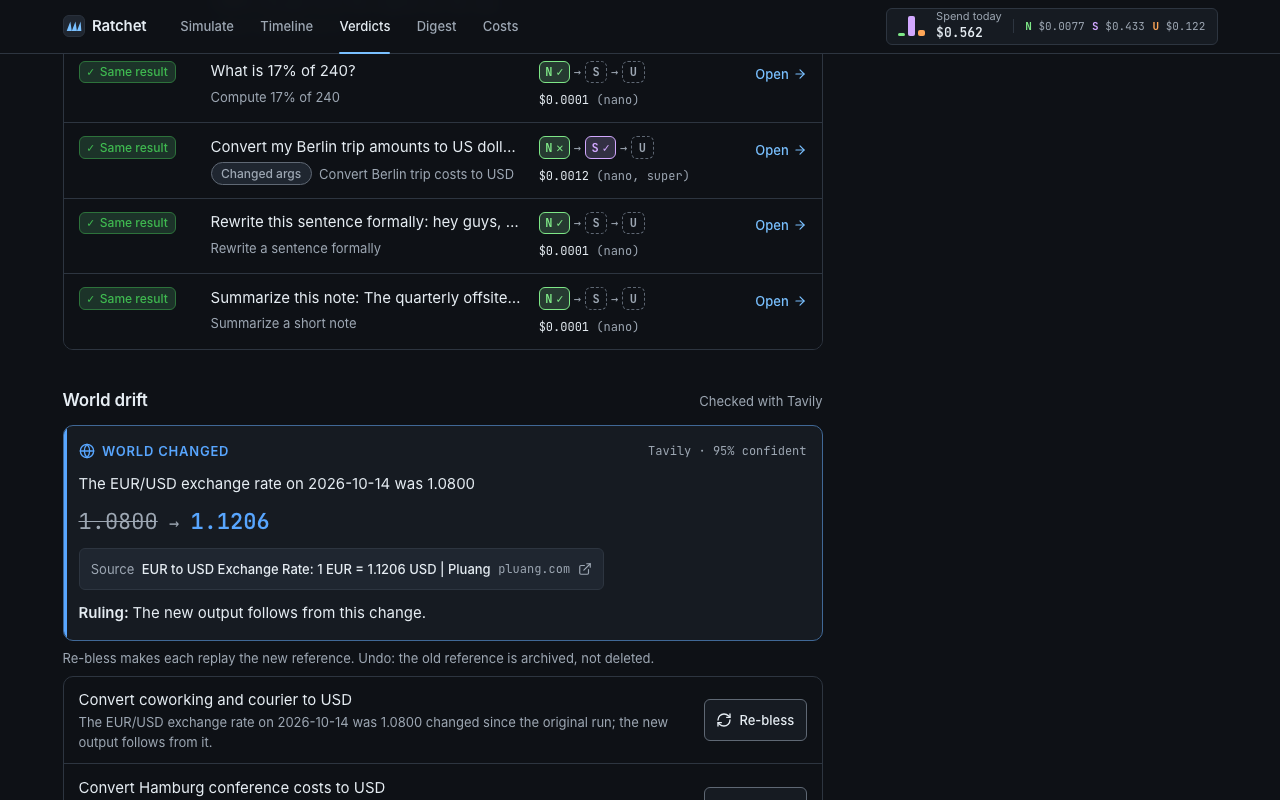
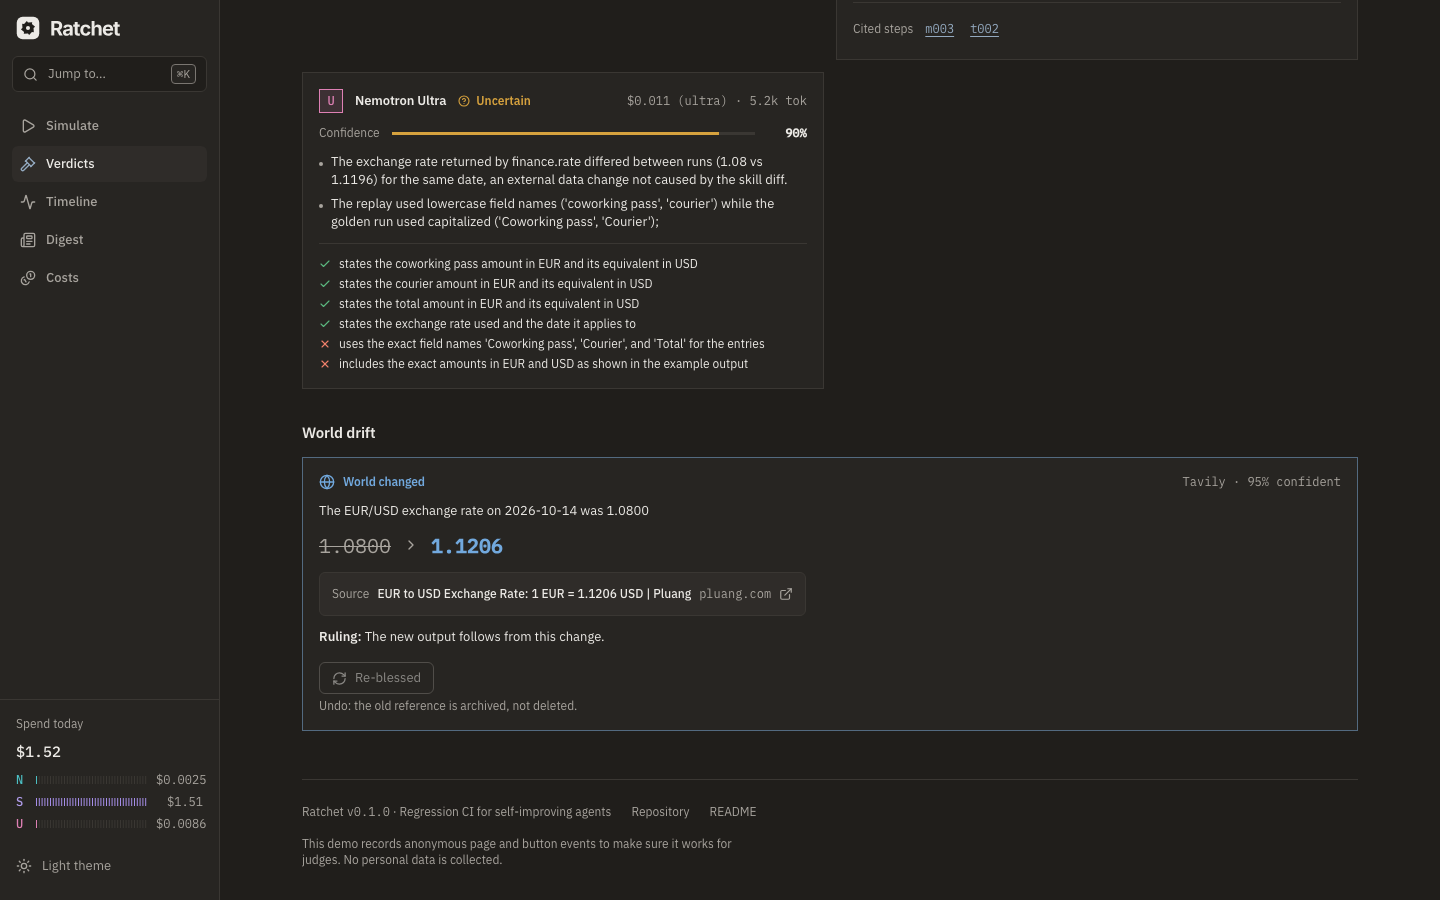
Docs figures: cascade and drift card from the redesigned dashboard

diff --git a/docs/user/dashboard.md b/docs/user/dashboard.md
@@ -164,7 +164,7 @@ the strip reads "Still working — *stage* is taking longer than usual."
    statement, the old value → the new value, the Tavily source link, the confidence and the
    ruling, plus **Re-bless** for each changed task.
 
-![Drift card with a Re-bless button](img/drift-card.png)
+![Drift card: the rate change, its Tavily source, the ruling, and the re-bless state](img/drift-card.png)
 
 **Side column**
 
